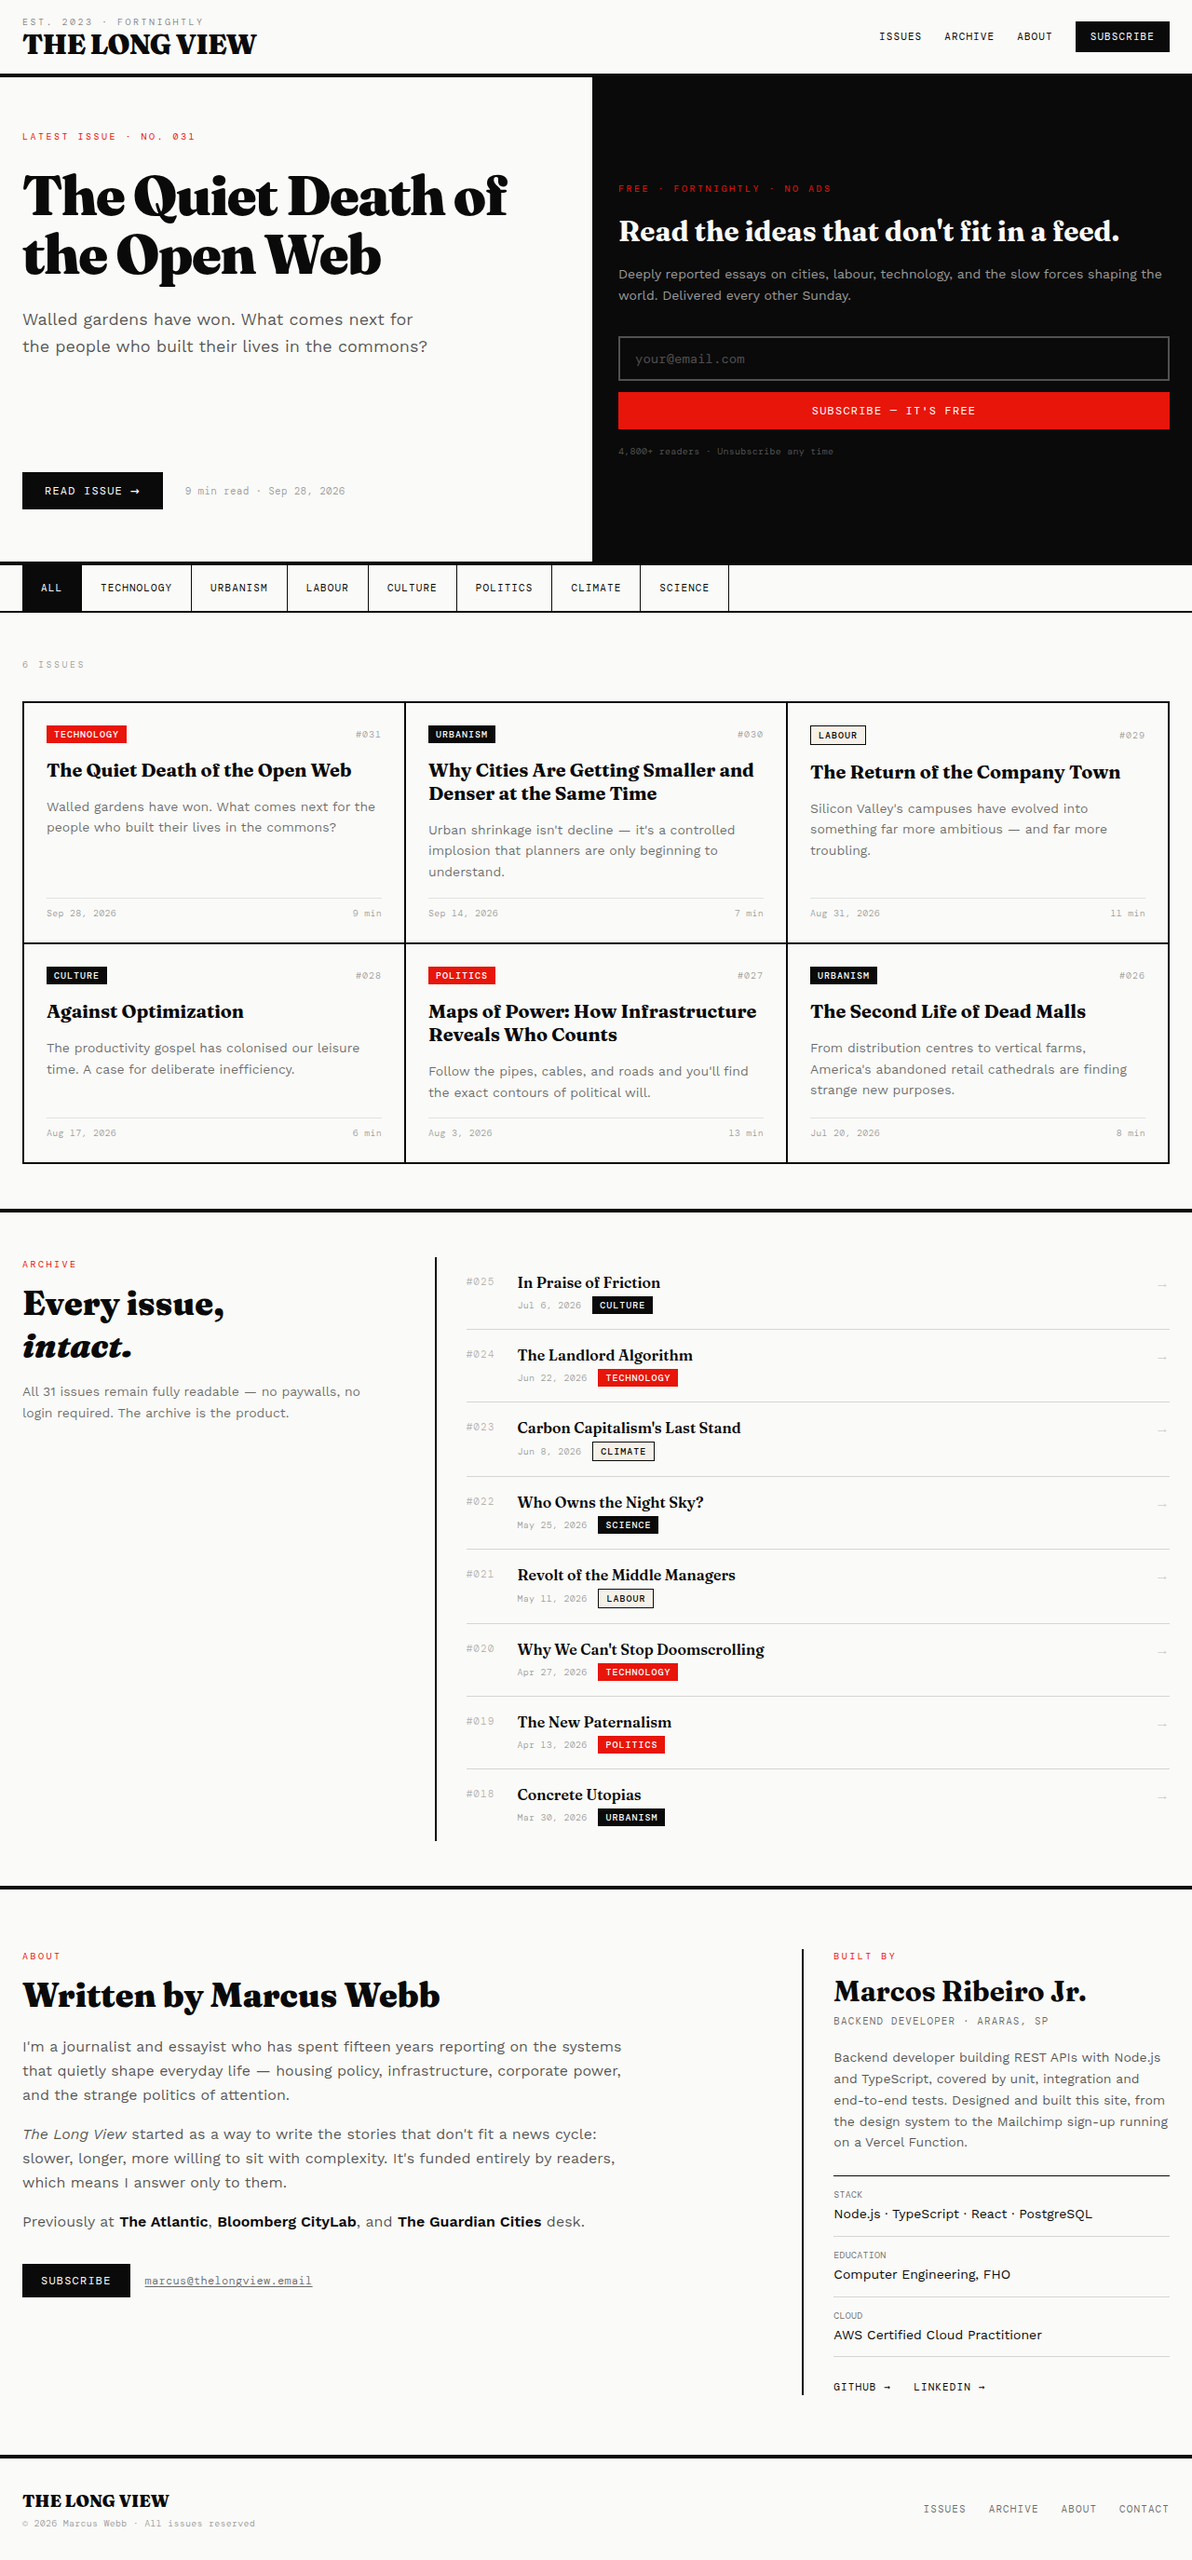
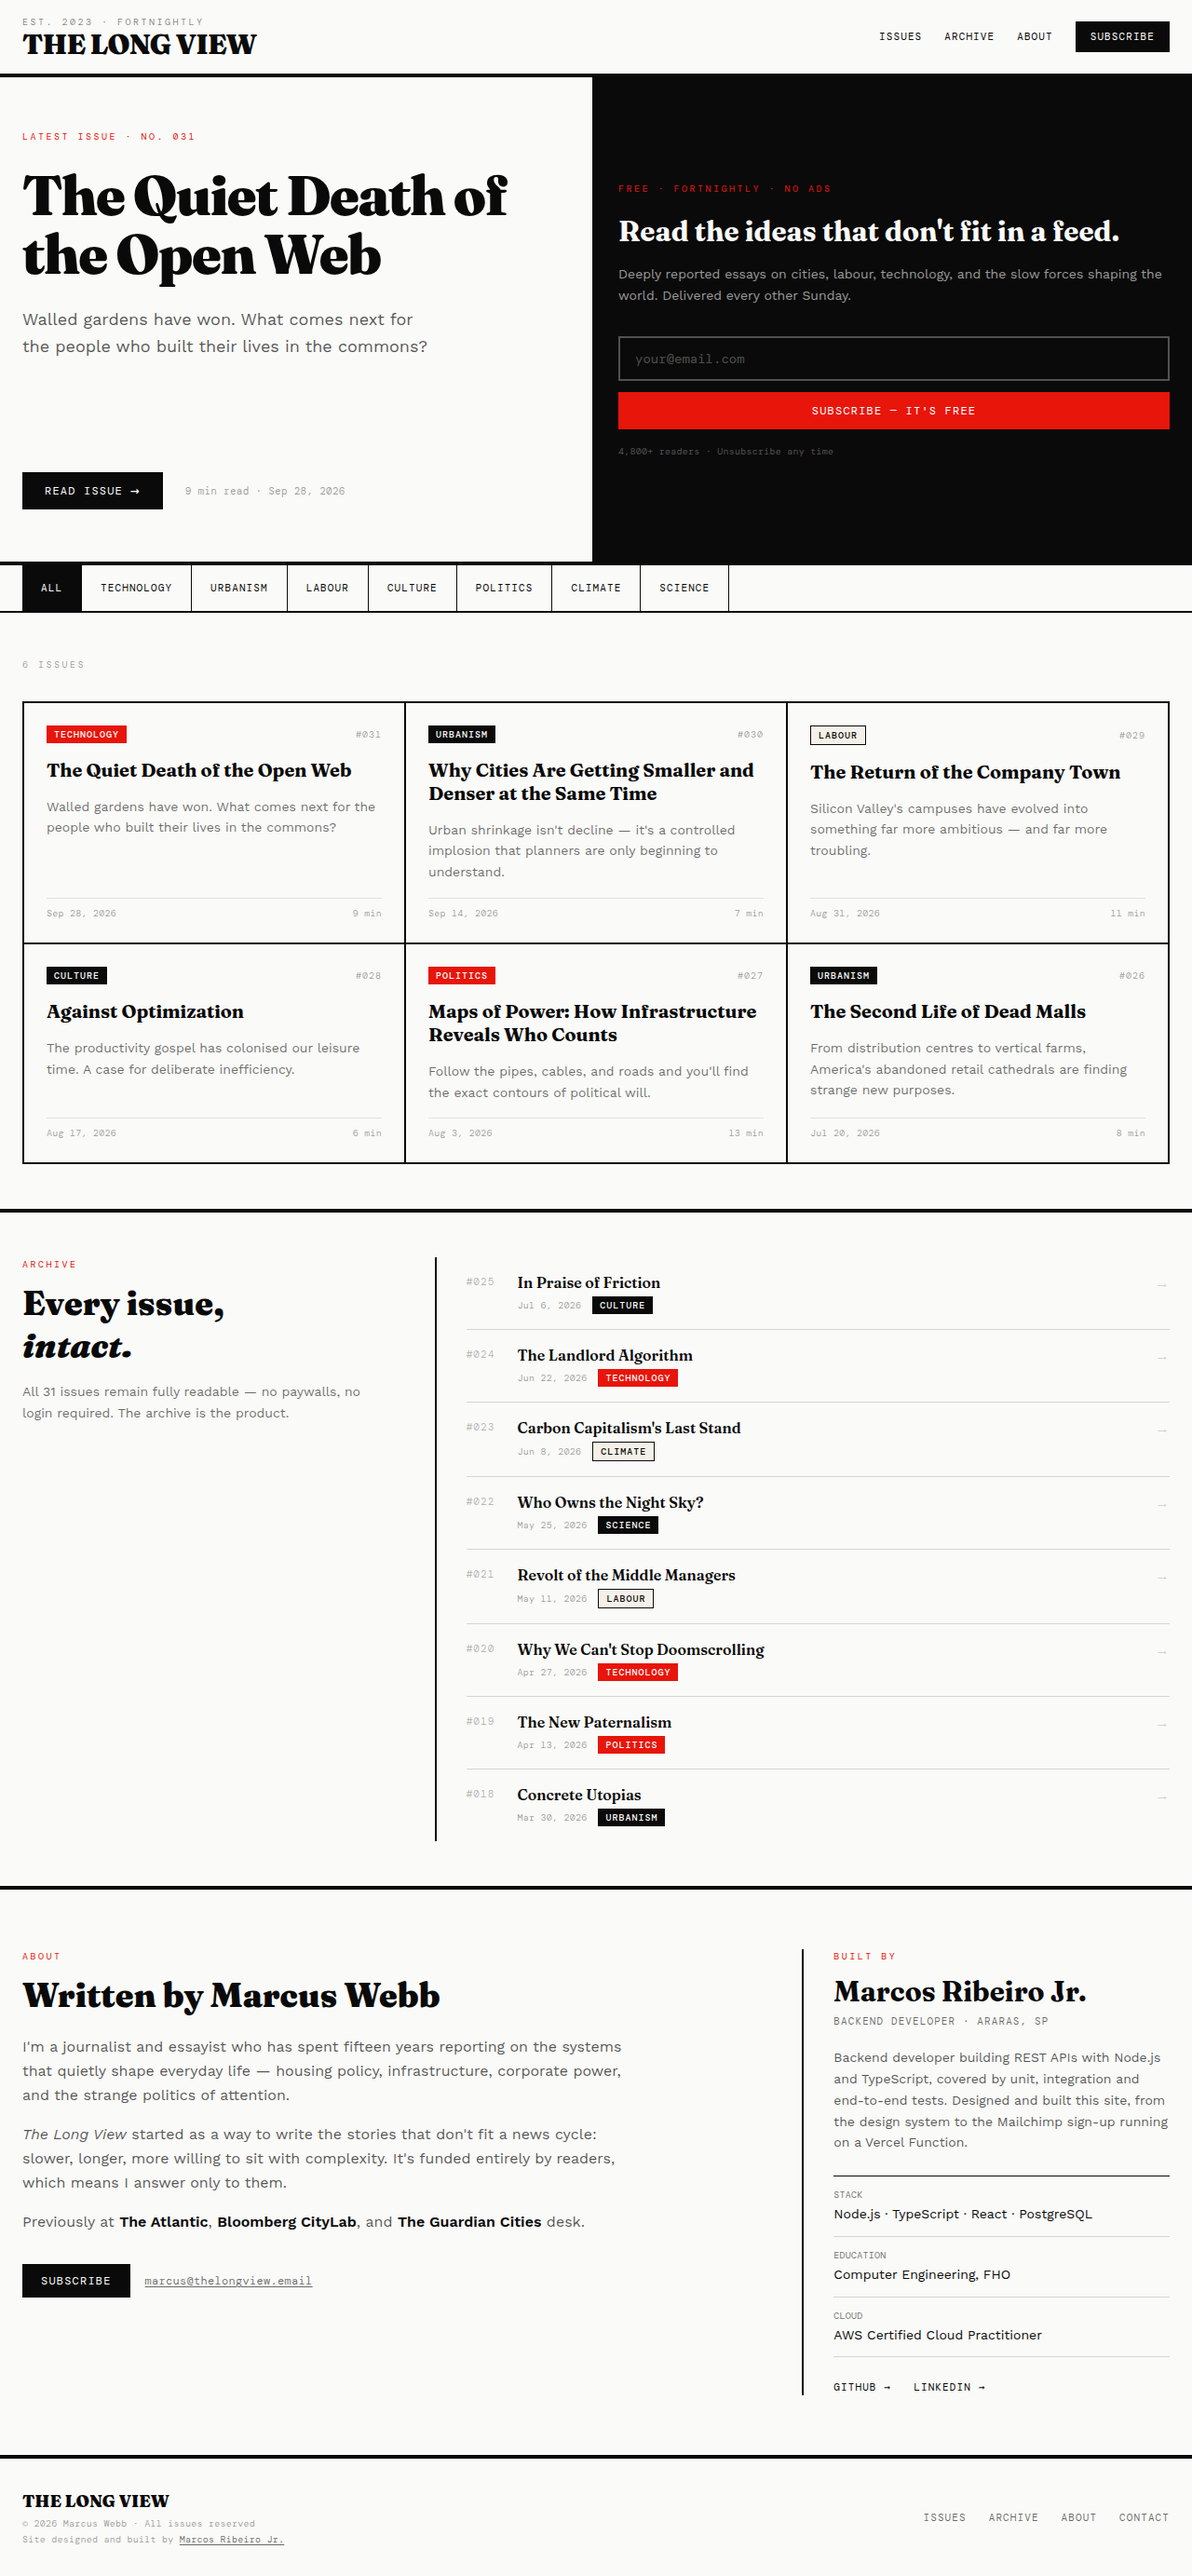
Adiciona no rodapé o crédito de quem fez o site

diff --git a/src/components/Footer.tsx b/src/components/Footer.tsx
@@ -6,6 +6,17 @@ export function Footer({ links }: { links: NavLink[] }) {
       <div>
         <p className="font-display text-lg font-black">THE LONG VIEW</p>
         <p className="mt-0.5 font-mono text-meta text-ink-40">© 2026 Marcus Webb · All issues reserved</p>
+        <p className="mt-0.5 font-mono text-meta text-ink-40">
+          Site designed and built by{' '}
+          <a
+            href="https://github.com/MarcosRBjunior"
+            target="_blank"
+            rel="noreferrer"
+            className="text-ink-60 underline underline-offset-2 transition-colors hover:text-hot"
+          >
+            Marcos Ribeiro Jr.
+          </a>
+        </p>
       </div>
       <nav className="flex items-center gap-6 font-mono text-nav uppercase text-ink-60">
         {links.map((link) => (

diff --git a/docs/design-system/components/Footer/preview.html b/docs/design-system/components/Footer/preview.html
@@ -6,7 +6,7 @@
 </head>
 <body class="lv-root">
 <footer class="lv-footer" style="margin:-24px">
- <div><p class="lv-footer__name">THE LONG VIEW</p><p class="lv-meta" style="margin:2px 0 0">© 2026 Marcus Webb · All issues reserved</p></div>
+ <div><p class="lv-footer__name">THE LONG VIEW</p><p class="lv-meta" style="margin:2px 0 0">© 2026 Marcus Webb · All issues reserved</p><p class="lv-meta" style="margin:2px 0 0">Site designed and built by <a href="https://github.com/MarcosRBjunior" style="color:var(--ink-60);text-underline-offset:2px">Marcos Ribeiro Jr.</a></p></div>
  <nav class="lv-nav"><a href="#">Issues</a><a href="#">Archive</a><a href="#">About</a><a href="#">Contact</a></nav>
 </footer>
 </body>

diff --git a/docs/design-system/components/Footer/README.md b/docs/design-system/components/Footer/README.md
@@ -2,5 +2,7 @@
 
 Rodapé: nome em Fraunces 900 18px, copyright em `meta` e links mono em `ink-60` (hover `hot`) — no celular são a única navegação, então precisam passar de 4.5:1.
 
+Abaixo do copyright, uma segunda linha em `meta` dá o crédito de quem fez o site: "Site designed and built by Marcos Ribeiro Jr.", com o nome em `ink-60` sublinhado (hover `hot`) linkando o GitHub.
+
 - Sem régua inferior; a régua `stroke-heavy` da seção anterior o separa.
 - Empilha em coluna abaixo de 768px.
